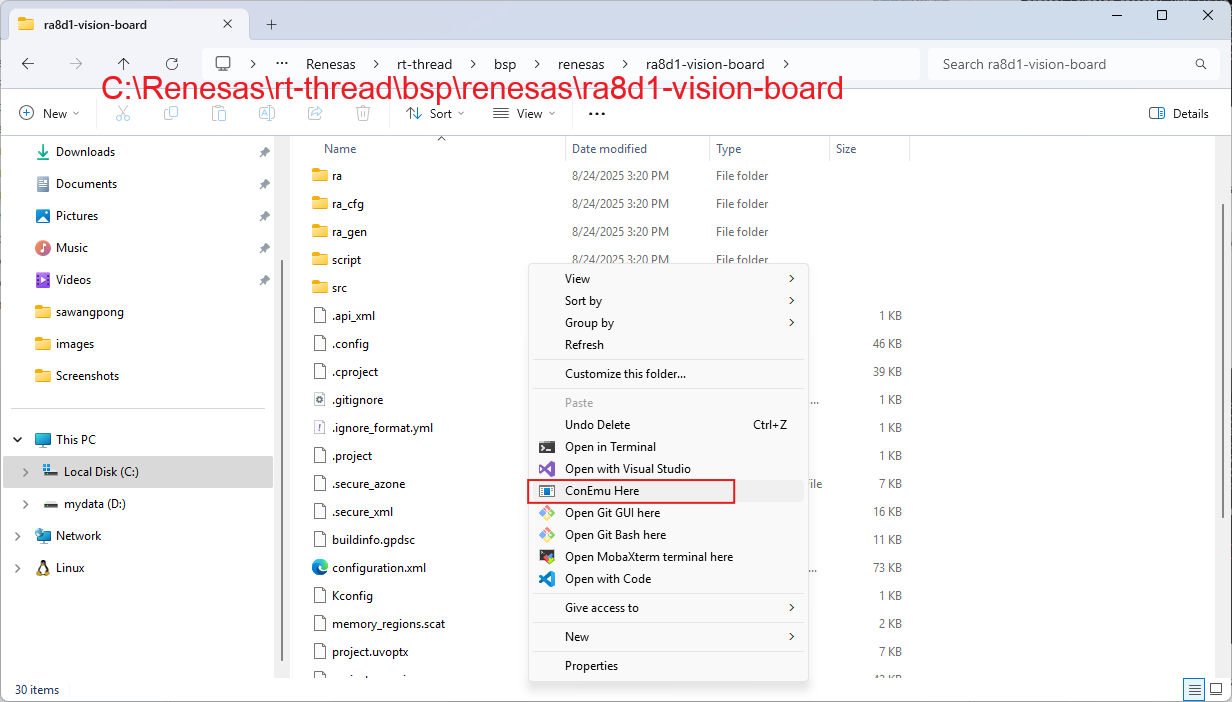
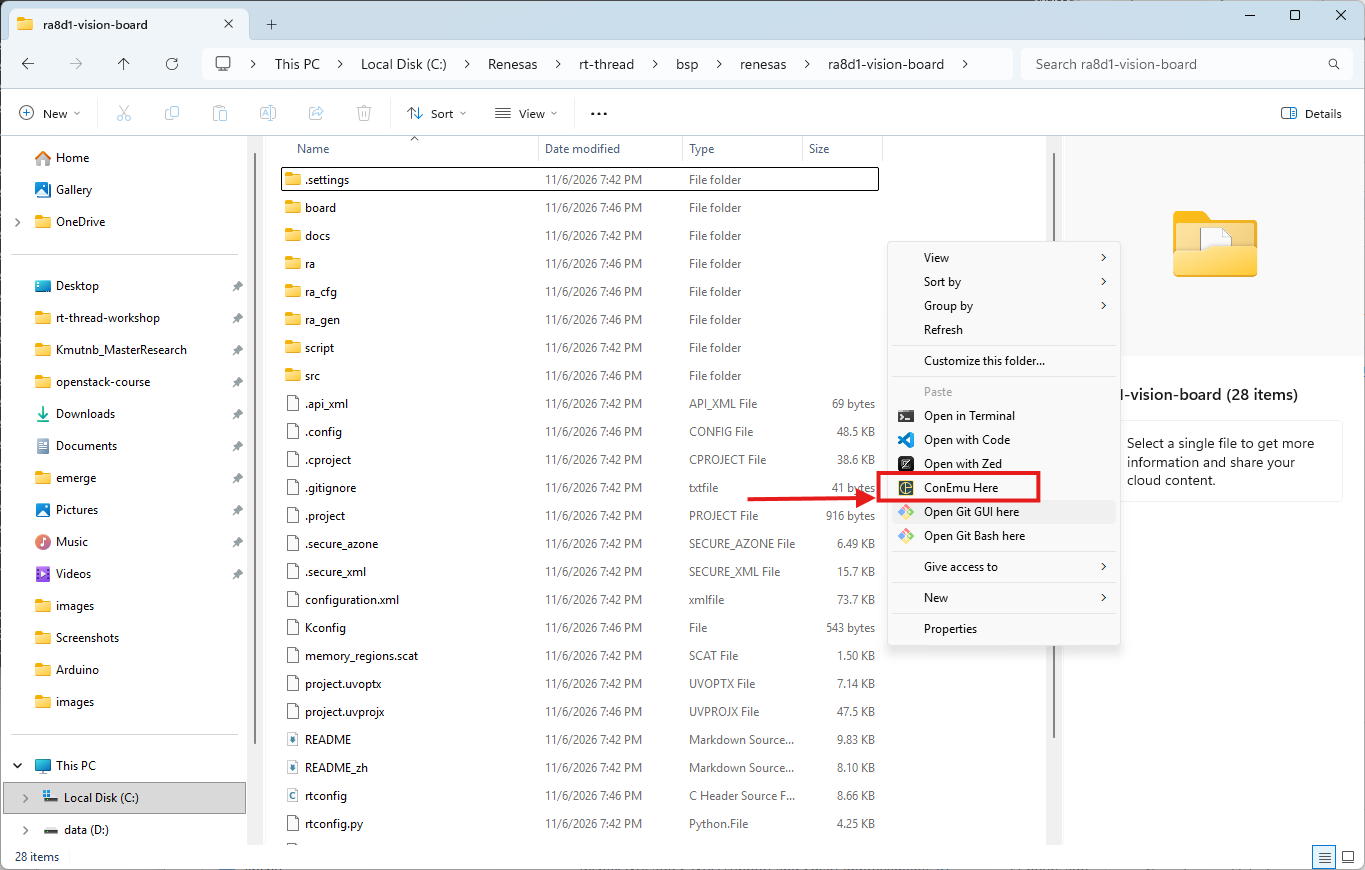
update scons

diff --git a/docs/02_Preparation/02.3_install_env_tool.md b/docs/02_Preparation/02.3_install_env_tool.md
@@ -125,28 +125,82 @@ git merge upstream/master
 git push origin master
 ```
 
-``C:\Renesas\rt-thread\bsp\renesas\ra8d1-vision-board``
+### ขั้นตอนการเปิด Source Code ด้วย ConEmu มีดังนี้
+
+- Click ขวา ที่ **C:\Renesas\rt-thread\bsp\renesas\ra8d1-vision-board**
+เลือก Show more option
+![](./images/7_env_tool26-2.png)
+
+- เลือก ConEmu Here
 ![](./images/7_env_tool26.png)
-- จากรูปด้านบน คือการเปิด ConEmu ที่ Folder นี้ โดยให้เราทำการ Right ขวา ในพื้นที่ว่างๆ ของ หน้าต่าง Browser แล้ว เลือก ``show more option``
+
+### ตัวอย่างหน้าจอการเลือก
 
 ![](./images/7_openconemu.gif)
 
 
-- ทดสอบคำสั่ง ด้วยการพิมพ์ ด้านล่าง และ เพื่อให้ scons ทำการ Download file ที่จะต้องใช้ในการ Build 
+- ทดสอบคำสั่ง ด้วยการพิมพ์ ด้านล่าง และ เพื่อให้ list files ที่ขึ้นต้อนด้วย SCon*
 ```
 ls -l SCon*
+```
+
+![](./images/7_env_tool27-1.png)
+
+- File Sconscript หลักในการ Build Project ของ RT-Thread
+
+## กรุณาอ่านให้เข้าใจ
+
+โปรเจกต์ RT-Thread ใช้ระบบ Build System ที่ชื่อว่า SCons (ซึ่งเขียนด้วยภาษา Python ทำหน้าที่คล้ายกับ Make แต่มีความยืดหยุ่นสูงกว่า) ในการจัดการและคอมไพล์โค้ด โดยตัวโปรเจกต์จะถูกแบ่งโครงสร้างเป็นส่วนๆ ผ่านไฟล์ SConstruct และ SConscript
+
+สำหรับลิงก์ GitHub ที่ยกตัวอย่างมา (bsp/renesas/ra8d1-vision-board) ซึ่งเป็นบอร์ดพัฒนา Renesas RA8D1 Vision Board (ใช้ชิปตระกูล Arm Cortex-M85 รองรับงาน Machine Vision และ AI) จะมีกลไกการทำงานและการอ่านไฟล์ SConscript เพื่อ Build Project ดังนี้ครับ:
+
+
+- 1.โครงสร้างและลำดับการทำงานของ SCons ใน RT-Thread
+เมื่อคุณสั่ง Build โปรเจกต์ SCons จะทำงานตามลำดับขั้นตอนนี้:
+    - ไฟล์นี้จะอยู่ที่ระดับบนสุดของโปรเจกต์ (หรือดึงมาจากโฟลเดอร์กลางของ BSP)
+    - ทำหน้าที่กำหนดค่าเริ่มต้น เช่น ค้นหา Toolchain (เช่น GCC สำหรับ ARM), กำหนด Flag สำหรับ Compiler/Linker, และค้นหา Path ของ RT-Thread Kernel หลัก
+- 2.กวาดหาไฟล์ย่อยผ่าน SConscript:
+    - โฟลเดอร์ย่อยต่างๆ เช่น ไดเรกทอรีของไดรเวอร์ (Drivers), แอปพลิเคชัน (Applications), หรือไลบรารีของชิป (เช่น Renesas FSP / Libraries) จะมีไฟล์ชื่อว่า SConscript วางอยู่
+    - คำสั่ง SConscript() ใน SConstruct หรือไฟล์แม่ จะบอกให้ SCons วิ่งเข้าไปอ่านไฟล์ SConscript ในแต่ละโฟลเดอร์นั้น เพื่อดึงรายชื่อไฟล์ .c และ .cpp ที่ต้องใช้ในการคอมไพล์เข้ามาในระบบ
+
+- 3.หน้าที่ของไฟล์ SConscript ในแต่ละโฟลเดอร์
+ในโฟลเดอร์ BSP ของ Renesas RA8D1 Vision Board ไฟล์ SConscript จะทำหน้าที่หลักๆ ดังนี้:
+    - รวบรวมซอร์สโค้ด (Source Files): ระบุว่าในโฟลเดอร์นั้นๆ มีไฟล์โค้ดอะไรบ้างที่ต้องนำมาคอมไพล์
+    - กำหนด Path ของ Header Files (CPPPATH): บอกคอมไพเลอร์ว่าโฟลเดอร์ไหนเก็บบายเออร์ไฟล์ .h ไว้บ้าง เพื่อให้เวลาคอมไพล์แล้วไม่เกิด Error ว่าหา Headerไม่เจอ
+    - จัดการเงื่อนไขตามการ Config (Kconfig): RT-Thread มักจะใช้งานร่วมกับเครื่องมือ Env Tool (ที่มี menuconfig) ตัวไฟล์ SConscript จะอ่านค่าคอนฟิกจากไฟล์ .config ว่าผู้ใช้เปิดใช้งาน Hardware Peripherals ตัวไหน (เช่น I2C, SPI, UART หรือ LCD Controller ของ RA8D1) หากปิดใช้งาน ฟังก์ชันหรือไดรเวอร์ส่วนนั้นก็จะไม่ถูกดึงมารวมในการ Build ช่วยให้ขนาด Kernel เล็กที่สุด
+
+- 4.วิธีการสั่ง Build โปรเจกต์ (กรณีใช้งานจริง)
+    - เปิด Command Line / Env Console ขึ้นมาที่โฟลเดอร์ของโปรเจกต์ BSP  (bsp/renesas/ra8d1-vision-board) 
+        ```
+        menuconfig
+        ```
+        แล้ว กด Save
+    - Compile ผ่าน GCC โดยพิมพ์ scons
+        ```
+        scons
+        ```
+
+- Build Workflow
+![](./images/build-process-scon.jpg)
+
+- File sconscript ตามรูปด้านล่างเป็น ภาษา Python ลองเปิด Editor อะไรก็ได้นะครับ ผมใช้ vim
+![](./images/sconscript.png)
+
+- File Sconstruct
+![](./images/sconstruct.png)
+
+
+### ลอง Compile ผ่าน GCC โดยพิมพ์ scons
+```
 scons
 ```
-ดูผลที่ได้
+![](./images/7_env_tool27-2.png)
+
+ดูผลที่ได้ จากการ Build GCC ผ่าน scons
 ![](./images/7_env_tool27.png)
 
-## โครงสร้าง source code 
-
-![](./images/7_env_tool28.png)
-
-![](./images/7_env_tool29.png)
-
-## Make menuconfig
+## Gif อธิบาย เปิด Project C:\Renesas\rt-thread\bsp\renesas\ra8d1-vision-board ด้วย explorer ของ windows
+Make menuconfig
 - เปิด ConEmu ใน Project Folder ``C:\Renesas\rt-thread\bsp\renesas\ra8d1-vision-board``
 ![](./images/7_menuconfig.gif)
 
